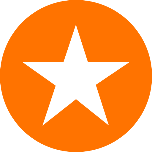
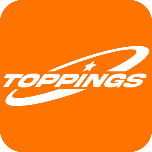
Feat(client): 변경된 logo와 앱 아이콘 이미지를 변경합니다. (#112)
* feat: 변경된 logo와 앱 아이콘 이미지를 변경합니다.

* fix: Remove useless orangeLogo and restore graylogo

* feat: Change grayLogo

diff --git a/apps/client/public/sw.js b/apps/client/public/sw.js
@@ -1,1 +1,1 @@
-if(!self.define){let e,s={};const n=(n,i)=>(n=new URL(n+".js",i).href,s[n]||new Promise((s=>{if("document"in self){const e=document.createElement("script");e.src=n,e.onload=s,document.head.appendChild(e)}else e=n,importScripts(n),s()})).then((()=>{let e=s[n];if(!e)throw new Error(`Module ${n} didn’t register its module`);return e})));self.define=(i,a)=>{const c=e||("document"in self?document.currentScript.src:"")||location.href;if(s[c])return;let t={};const r=e=>n(e,c),o={module:{uri:c},exports:t,require:r};s[c]=Promise.all(i.map((e=>o[e]||r(e)))).then((e=>(a(...e),t)))}}define(["./workbox-981179b2"],(function(e){"use strict";importScripts(),self.skipWaiting(),e.clientsClaim(),e.precacheAndRoute([{url:"/_next/static/_-uUmukwtk-ajOC4BQ8iz/_buildManifest.js",revision:"2e5f4ba7390f2bf413d15c4a61836898"},{url:"/_next/static/_-uUmukwtk-ajOC4BQ8iz/_ssgManifest.js",revision:"b6652df95db52feb4daf4eca35380933"},{url:"/_next/static/chunks/122-8d4af793a5482d45.js",revision:"8d4af793a5482d45"},{url:"/_next/static/chunks/247-1de57a6a7cc1e852.js",revision:"1de57a6a7cc1e852"},{url:"/_next/static/chunks/262-ae66096516c2317f.js",revision:"ae66096516c2317f"},{url:"/_next/static/chunks/284-aaf9d2391ee77818.js",revision:"aaf9d2391ee77818"},{url:"/_next/static/chunks/461-a7b64f631c2f9f42.js",revision:"a7b64f631c2f9f42"},{url:"/_next/static/chunks/635-7ec2b46d127777c3.js",revision:"7ec2b46d127777c3"},{url:"/_next/static/chunks/978-637c3134ed31c728.js",revision:"637c3134ed31c728"},{url:"/_next/static/chunks/framework-a854c81c24cf2e55.js",revision:"a854c81c24cf2e55"},{url:"/_next/static/chunks/main-ad4cfd227aad6c0b.js",revision:"ad4cfd227aad6c0b"},{url:"/_next/static/chunks/pages/404-86914aa9cbdfbe0e.js",revision:"86914aa9cbdfbe0e"},{url:"/_next/static/chunks/pages/_app-2fbeed6bc84df298.js",revision:"2fbeed6bc84df298"},{url:"/_next/static/chunks/pages/_error-92e3c202d3b508e2.js",revision:"92e3c202d3b508e2"},{url:"/_next/static/chunks/pages/about-5b527ecf03a3e75e.js",revision:"5b527ecf03a3e75e"},{url:"/_next/static/chunks/pages/index-ac71b9d772f05ab5.js",revision:"ac71b9d772f05ab5"},{url:"/_next/static/chunks/pages/login-91aef875dece490c.js",revision:"91aef875dece490c"},{url:"/_next/static/chunks/pages/login/redirect-bc931e350282b256.js",revision:"bc931e350282b256"},{url:"/_next/static/chunks/pages/map-6ff3bdd250c73ff6.js",revision:"6ff3bdd250c73ff6"},{url:"/_next/static/chunks/pages/map/viewList-a297d23b363a23b9.js",revision:"a297d23b363a23b9"},{url:"/_next/static/chunks/pages/notice-9b9dce7097b932e6.js",revision:"9b9dce7097b932e6"},{url:"/_next/static/chunks/pages/post/%5Bid%5D-7bffc2c0ec2cc7e4.js",revision:"7bffc2c0ec2cc7e4"},{url:"/_next/static/chunks/pages/post/add-71c61d9f73f4f2b2.js",revision:"71c61d9f73f4f2b2"},{url:"/_next/static/chunks/pages/profile-5819719085413bc9.js",revision:"5819719085413bc9"},{url:"/_next/static/chunks/pages/profile/edit-e3343a6db301e58f.js",revision:"e3343a6db301e58f"},{url:"/_next/static/chunks/pages/profile/edit/eatingHabits-9c0f81b765598e68.js",revision:"9c0f81b765598e68"},{url:"/_next/static/chunks/pages/profile/edit/nationality-951ef365a9080c55.js",revision:"951ef365a9080c55"},{url:"/_next/static/chunks/pages/profile/menu-02b55cfde8a5c324.js",revision:"02b55cfde8a5c324"},{url:"/_next/static/chunks/pages/profile/posts-bd06ac5b0e3791e8.js",revision:"bd06ac5b0e3791e8"},{url:"/_next/static/chunks/pages/profile/reviews-c6ef391e79f508f2.js",revision:"c6ef391e79f508f2"},{url:"/_next/static/chunks/pages/profile/saved-a3e53ed1f02cbd65.js",revision:"a3e53ed1f02cbd65"},{url:"/_next/static/chunks/pages/recent-90197be6b39d6706.js",revision:"90197be6b39d6706"},{url:"/_next/static/chunks/pages/recent/filter/eatingHabit-48e2be56e975d186.js",revision:"48e2be56e975d186"},{url:"/_next/static/chunks/pages/recent/filter/nationality-b193ee22ff30864b.js",revision:"b193ee22ff30864b"},{url:"/_next/static/chunks/pages/recent/filter/restaurant-2ee0d9900b2b9803.js",revision:"2ee0d9900b2b9803"},{url:"/_next/static/chunks/pages/register/eatingHabits-cb47b16b10b8777d.js",revision:"cb47b16b10b8777d"},{url:"/_next/static/chunks/pages/register/nationality-436d488cb76f2e9d.js",revision:"436d488cb76f2e9d"},{url:"/_next/static/chunks/pages/review/%5Bid%5D-b5d951a1b8f10a3d.js",revision:"b5d951a1b8f10a3d"},{url:"/_next/static/chunks/pages/review/add/%5BrestaurantId%5D-bdcea2b5fed42266.js",revision:"bdcea2b5fed42266"},{url:"/_next/static/chunks/pages/search/%5Btype%5D-7d0fe384666b422f.js",revision:"7d0fe384666b422f"},{url:"/_next/static/chunks/polyfills-c67a75d1b6f99dc8.js",revision:"837c0df77fd5009c9e46d446188ecfd0"},{url:"/_next/static/chunks/webpack-235955b20eb3ee85.js",revision:"235955b20eb3ee85"},{url:"/android-icon-128x128.png",revision:"b6b14af45b3b5d837738423285e4176d"},{url:"/android-icon-144x144.png",revision:"3625239d9e9cc6727db90d06f1e76ba3"},{url:"/android-icon-152x152.png",revision:"a416854c3ba169c0a6a116a335a341e5"},{url:"/android-icon-192x192.png",revision:"b172c29685892c6b8759c3c3d1cd8a65"},{url:"/android-icon-36x36.png",revision:"f0e05b9ee4fd0bda286bc082cbe6b5a5"},{url:"/android-icon-384x384.png",revision:"55274557ec9172d4a868fa76055451f5"},{url:"/android-icon-48x48.png",revision:"31bee9e052020488ccbb48d6c99ed220"},{url:"/android-icon-512x512.png",revision:"569ba17842913b1b1b78d242b7cf2c3b"},{url:"/android-icon-72x72.png",revision:"afc62fbd5cdb0e7081f44657056b5a73"},{url:"/android-icon-96x96.png",revision:"74636f9aacb68e4734e20abbb05636bf"},{url:"/apple-icon-114x114.png",revision:"e925757906f707a89f522c15b813875a"},{url:"/apple-icon-120x120.png",revision:"648d82ad79856a277c2998c2d18a9616"},{url:"/apple-icon-144x144.png",revision:"71c57abf8c67aafce505af77e3b31cd4"},{url:"/apple-icon-152x152.png",revision:"60b5e97f3d04d3ac9a9ade7299a38997"},{url:"/apple-icon-180x180.png",revision:"6405c79d492cf12344a38d8601a32cef"},{url:"/apple-icon-57x57.png",revision:"a4d2057257e7357d65ee1947251b9ef9"},{url:"/apple-icon-60x60.png",revision:"38ba73c939e45718bdacfb1ebfd09279"},{url:"/apple-icon-72x72.png",revision:"46fe2cab121862783b99e180991b600b"},{url:"/apple-icon-76x76.png",revision:"2768a2d83acbbe4cc11d54305a835eca"},{url:"/apple-icon-precomposed.png",revision:"49b767e8df04e943080f837ff95c5022"},{url:"/apple-icon.png",revision:"49b767e8df04e943080f837ff95c5022"},{url:"/browserconfig.xml",revision:"653d077300a12f09a69caeea7a8947f8"},{url:"/favicon-16x16.png",revision:"2277a19c59e52bb047bfb2ebec5c558b"},{url:"/favicon-32x32.png",revision:"1601703f79b4ae283bc2062287ef6f78"},{url:"/favicon-96x96.png",revision:"97e287a813da31fa390af99334f7c9b7"},{url:"/favicon.ico",revision:"5157af039d5625e90beaf5a434dd2e20"},{url:"/manifest.json",revision:"1a01e0eb1cedc98ef2bfc7249409d186"},{url:"/ms-icon-144x144.png",revision:"71c57abf8c67aafce505af77e3b31cd4"},{url:"/ms-icon-150x150.png",revision:"0abe98959a98cc86a9d44435dbac9f20"},{url:"/ms-icon-310x310.png",revision:"c001925e71ae7bf2fa932d9fe59df2a1"},{url:"/ms-icon-70x70.png",revision:"5a4c95d916defdbdeb028cf9d560189e"}],{ignoreURLParametersMatching:[]}),e.cleanupOutdatedCaches(),e.registerRoute("/",new e.NetworkFirst({cacheName:"start-url",plugins:[{cacheWillUpdate:async({request:e,response:s,event:n,state:i})=>s&&"opaqueredirect"===s.type?new Response(s.body,{status:200,statusText:"OK",headers:s.headers}):s}]}),"GET"),e.registerRoute(/^https:\/\/fonts\.(?:gstatic)\.com\/.*/i,new e.CacheFirst({cacheName:"google-fonts-webfonts",plugins:[new e.ExpirationPlugin({maxEntries:4,maxAgeSeconds:31536e3})]}),"GET"),e.registerRoute(/^https:\/\/fonts\.(?:googleapis)\.com\/.*/i,new e.StaleWhileRevalidate({cacheName:"google-fonts-stylesheets",plugins:[new e.ExpirationPlugin({maxEntries:4,maxAgeSeconds:604800})]}),"GET"),e.registerRoute(/\.(?:eot|otf|ttc|ttf|woff|woff2|font.css)$/i,new e.StaleWhileRevalidate({cacheName:"static-font-assets",plugins:[new e.ExpirationPlugin({maxEntries:4,maxAgeSeconds:604800})]}),"GET"),e.registerRoute(/\.(?:jpg|jpeg|gif|png|svg|ico|webp)$/i,new e.StaleWhileRevalidate({cacheName:"static-image-assets",plugins:[new e.ExpirationPlugin({maxEntries:64,maxAgeSeconds:86400})]}),"GET"),e.registerRoute(/\/_next\/image\?url=.+$/i,new e.StaleWhileRevalidate({cacheName:"next-image",plugins:[new e.ExpirationPlugin({maxEntries:64,maxAgeSeconds:86400})]}),"GET"),e.registerRoute(/\.(?:mp3|wav|ogg)$/i,new e.CacheFirst({cacheName:"static-audio-assets",plugins:[new e.RangeRequestsPlugin,new e.ExpirationPlugin({maxEntries:32,maxAgeSeconds:86400})]}),"GET"),e.registerRoute(/\.(?:mp4)$/i,new e.CacheFirst({cacheName:"static-video-assets",plugins:[new e.RangeRequestsPlugin,new e.ExpirationPlugin({maxEntries:32,maxAgeSeconds:86400})]}),"GET"),e.registerRoute(/\.(?:js)$/i,new e.StaleWhileRevalidate({cacheName:"static-js-assets",plugins:[new e.ExpirationPlugin({maxEntries:32,maxAgeSeconds:86400})]}),"GET"),e.registerRoute(/\.(?:css|less)$/i,new e.StaleWhileRevalidate({cacheName:"static-style-assets",plugins:[new e.ExpirationPlugin({maxEntries:32,maxAgeSeconds:86400})]}),"GET"),e.registerRoute(/\/_next\/data\/.+\/.+\.json$/i,new e.StaleWhileRevalidate({cacheName:"next-data",plugins:[new e.ExpirationPlugin({maxEntries:32,maxAgeSeconds:86400})]}),"GET"),e.registerRoute(/\.(?:json|xml|csv)$/i,new e.NetworkFirst({cacheName:"static-data-assets",plugins:[new e.ExpirationPlugin({maxEntries:32,maxAgeSeconds:86400})]}),"GET"),e.registerRoute((({url:e})=>{if(!(self.origin===e.origin))return!1;const s=e.pathname;return!s.startsWith("/api/auth/")&&!!s.startsWith("/api/")}),new e.NetworkFirst({cacheName:"apis",networkTimeoutSeconds:10,plugins:[new e.ExpirationPlugin({maxEntries:16,maxAgeSeconds:86400})]}),"GET"),e.registerRoute((({url:e})=>{if(!(self.origin===e.origin))return!1;return!e.pathname.startsWith("/api/")}),new e.NetworkFirst({cacheName:"others",networkTimeoutSeconds:10,plugins:[new e.ExpirationPlugin({maxEntries:32,maxAgeSeconds:86400})]}),"GET"),e.registerRoute((({url:e})=>!(self.origin===e.origin)),new e.NetworkFirst({cacheName:"cross-origin",networkTimeoutSeconds:10,plugins:[new e.ExpirationPlugin({maxEntries:32,maxAgeSeconds:3600})]}),"GET")}));
+if(!self.define){let e,s={};const n=(n,i)=>(n=new URL(n+".js",i).href,s[n]||new Promise((s=>{if("document"in self){const e=document.createElement("script");e.src=n,e.onload=s,document.head.appendChild(e)}else e=n,importScripts(n),s()})).then((()=>{let e=s[n];if(!e)throw new Error(`Module ${n} didn’t register its module`);return e})));self.define=(i,a)=>{const c=e||("document"in self?document.currentScript.src:"")||location.href;if(s[c])return;let t={};const r=e=>n(e,c),o={module:{uri:c},exports:t,require:r};s[c]=Promise.all(i.map((e=>o[e]||r(e)))).then((e=>(a(...e),t)))}}define(["./workbox-981179b2"],(function(e){"use strict";importScripts(),self.skipWaiting(),e.clientsClaim(),e.precacheAndRoute([{url:"/_next/static/chunks/122-8d4af793a5482d45.js",revision:"8d4af793a5482d45"},{url:"/_next/static/chunks/247-ae065a333ef39fb5.js",revision:"ae065a333ef39fb5"},{url:"/_next/static/chunks/262-ae66096516c2317f.js",revision:"ae66096516c2317f"},{url:"/_next/static/chunks/284-7d3b25c8c5626f8a.js",revision:"7d3b25c8c5626f8a"},{url:"/_next/static/chunks/461-a57f9934126b8469.js",revision:"a57f9934126b8469"},{url:"/_next/static/chunks/635-4792f31964f854c6.js",revision:"4792f31964f854c6"},{url:"/_next/static/chunks/978-3c89c4a23f0cc580.js",revision:"3c89c4a23f0cc580"},{url:"/_next/static/chunks/framework-a854c81c24cf2e55.js",revision:"a854c81c24cf2e55"},{url:"/_next/static/chunks/main-ad4cfd227aad6c0b.js",revision:"ad4cfd227aad6c0b"},{url:"/_next/static/chunks/pages/404-5539b242486f9e46.js",revision:"5539b242486f9e46"},{url:"/_next/static/chunks/pages/_app-dc5ef7b532bbdccf.js",revision:"dc5ef7b532bbdccf"},{url:"/_next/static/chunks/pages/_error-92e3c202d3b508e2.js",revision:"92e3c202d3b508e2"},{url:"/_next/static/chunks/pages/about-5b527ecf03a3e75e.js",revision:"5b527ecf03a3e75e"},{url:"/_next/static/chunks/pages/index-fc3f2fc953ea8c2f.js",revision:"fc3f2fc953ea8c2f"},{url:"/_next/static/chunks/pages/login-91aef875dece490c.js",revision:"91aef875dece490c"},{url:"/_next/static/chunks/pages/login/redirect-bc931e350282b256.js",revision:"bc931e350282b256"},{url:"/_next/static/chunks/pages/map-6ff3bdd250c73ff6.js",revision:"6ff3bdd250c73ff6"},{url:"/_next/static/chunks/pages/map/viewList-a297d23b363a23b9.js",revision:"a297d23b363a23b9"},{url:"/_next/static/chunks/pages/notice-e7e77c6bcbf46d5a.js",revision:"e7e77c6bcbf46d5a"},{url:"/_next/static/chunks/pages/post/%5Bid%5D-e8d71770afce3390.js",revision:"e8d71770afce3390"},{url:"/_next/static/chunks/pages/post/add-71c61d9f73f4f2b2.js",revision:"71c61d9f73f4f2b2"},{url:"/_next/static/chunks/pages/profile-5819719085413bc9.js",revision:"5819719085413bc9"},{url:"/_next/static/chunks/pages/profile/edit-e3343a6db301e58f.js",revision:"e3343a6db301e58f"},{url:"/_next/static/chunks/pages/profile/edit/eatingHabits-9c0f81b765598e68.js",revision:"9c0f81b765598e68"},{url:"/_next/static/chunks/pages/profile/edit/nationality-951ef365a9080c55.js",revision:"951ef365a9080c55"},{url:"/_next/static/chunks/pages/profile/menu-02b55cfde8a5c324.js",revision:"02b55cfde8a5c324"},{url:"/_next/static/chunks/pages/profile/posts-bd06ac5b0e3791e8.js",revision:"bd06ac5b0e3791e8"},{url:"/_next/static/chunks/pages/profile/reviews-c6ef391e79f508f2.js",revision:"c6ef391e79f508f2"},{url:"/_next/static/chunks/pages/profile/saved-a3e53ed1f02cbd65.js",revision:"a3e53ed1f02cbd65"},{url:"/_next/static/chunks/pages/recent-90197be6b39d6706.js",revision:"90197be6b39d6706"},{url:"/_next/static/chunks/pages/recent/filter/eatingHabit-48e2be56e975d186.js",revision:"48e2be56e975d186"},{url:"/_next/static/chunks/pages/recent/filter/nationality-b193ee22ff30864b.js",revision:"b193ee22ff30864b"},{url:"/_next/static/chunks/pages/recent/filter/restaurant-2ee0d9900b2b9803.js",revision:"2ee0d9900b2b9803"},{url:"/_next/static/chunks/pages/register/eatingHabits-cb47b16b10b8777d.js",revision:"cb47b16b10b8777d"},{url:"/_next/static/chunks/pages/register/nationality-436d488cb76f2e9d.js",revision:"436d488cb76f2e9d"},{url:"/_next/static/chunks/pages/review/%5Bid%5D-df849f91d412fd24.js",revision:"df849f91d412fd24"},{url:"/_next/static/chunks/pages/review/add/%5BrestaurantId%5D-68d739bae3bc079a.js",revision:"68d739bae3bc079a"},{url:"/_next/static/chunks/pages/search/%5Btype%5D-7d0fe384666b422f.js",revision:"7d0fe384666b422f"},{url:"/_next/static/chunks/polyfills-c67a75d1b6f99dc8.js",revision:"837c0df77fd5009c9e46d446188ecfd0"},{url:"/_next/static/chunks/webpack-235955b20eb3ee85.js",revision:"235955b20eb3ee85"},{url:"/_next/static/j1D90CSX8eZpwnntjrCb9/_buildManifest.js",revision:"7849eb5f90a985bb182c6e6026a921b1"},{url:"/_next/static/j1D90CSX8eZpwnntjrCb9/_ssgManifest.js",revision:"b6652df95db52feb4daf4eca35380933"},{url:"/android-icon-128x128.png",revision:"d0944415ac547329c6618491432db626"},{url:"/android-icon-144x144.png",revision:"e77d62eeb8d9069a7e7231a2243bf847"},{url:"/android-icon-152x152.png",revision:"aa868775213c67615a5480a130fa9429"},{url:"/android-icon-192x192.png",revision:"c6a978f32700cd84af29537f186725c9"},{url:"/android-icon-36x36.png",revision:"46d3384734537e73fb2154de436f1aa3"},{url:"/android-icon-384x384.png",revision:"f87a445811cae15fc45767c229af4b63"},{url:"/android-icon-48x48.png",revision:"fb5c63f0871669c9b5848cb5fffeaad4"},{url:"/android-icon-512x512.png",revision:"370794057443af4c8781007b07b5e54b"},{url:"/android-icon-72x72.png",revision:"5c5446d80dcaa3117949620f75d80c5f"},{url:"/android-icon-96x96.png",revision:"678981bdf9ee061a7e6d95fe8777829a"},{url:"/apple-icon-114x114.png",revision:"67f8f14c5f8040a7962f21c722277fc9"},{url:"/apple-icon-120x120.png",revision:"73b793d95f6d5f32781322f60ed91537"},{url:"/apple-icon-144x144.png",revision:"8f00185c7cf8586c9a34610e412a1f85"},{url:"/apple-icon-152x152.png",revision:"fbb00242c8fe619c2c2f398eb2603834"},{url:"/apple-icon-180x180.png",revision:"769af5b32ac9958362ff7bec864e5ff5"},{url:"/apple-icon-57x57.png",revision:"98845e8d37451536bbe7311b2c2bf9a1"},{url:"/apple-icon-60x60.png",revision:"4c464ee4c4741663a836a6db1584c912"},{url:"/apple-icon-72x72.png",revision:"42c70ab83f56f8b34a365c0bde61f8e9"},{url:"/apple-icon-76x76.png",revision:"9a10a3eb27f2e096b0251bd5c8baefc3"},{url:"/apple-icon-precomposed.png",revision:"501aa691452d022a11a6d6ba31384d64"},{url:"/apple-icon.png",revision:"501aa691452d022a11a6d6ba31384d64"},{url:"/browserconfig.xml",revision:"653d077300a12f09a69caeea7a8947f8"},{url:"/favicon-16x16.png",revision:"2277a19c59e52bb047bfb2ebec5c558b"},{url:"/favicon-32x32.png",revision:"1601703f79b4ae283bc2062287ef6f78"},{url:"/favicon-96x96.png",revision:"97e287a813da31fa390af99334f7c9b7"},{url:"/favicon.ico",revision:"5157af039d5625e90beaf5a434dd2e20"},{url:"/manifest.json",revision:"53f110804ee8974a5e2aebb84156556c"},{url:"/ms-icon-144x144.png",revision:"71c57abf8c67aafce505af77e3b31cd4"},{url:"/ms-icon-150x150.png",revision:"0abe98959a98cc86a9d44435dbac9f20"},{url:"/ms-icon-310x310.png",revision:"c001925e71ae7bf2fa932d9fe59df2a1"},{url:"/ms-icon-70x70.png",revision:"5a4c95d916defdbdeb028cf9d560189e"}],{ignoreURLParametersMatching:[]}),e.cleanupOutdatedCaches(),e.registerRoute("/",new e.NetworkFirst({cacheName:"start-url",plugins:[{cacheWillUpdate:async({request:e,response:s,event:n,state:i})=>s&&"opaqueredirect"===s.type?new Response(s.body,{status:200,statusText:"OK",headers:s.headers}):s}]}),"GET"),e.registerRoute(/^https:\/\/fonts\.(?:gstatic)\.com\/.*/i,new e.CacheFirst({cacheName:"google-fonts-webfonts",plugins:[new e.ExpirationPlugin({maxEntries:4,maxAgeSeconds:31536e3})]}),"GET"),e.registerRoute(/^https:\/\/fonts\.(?:googleapis)\.com\/.*/i,new e.StaleWhileRevalidate({cacheName:"google-fonts-stylesheets",plugins:[new e.ExpirationPlugin({maxEntries:4,maxAgeSeconds:604800})]}),"GET"),e.registerRoute(/\.(?:eot|otf|ttc|ttf|woff|woff2|font.css)$/i,new e.StaleWhileRevalidate({cacheName:"static-font-assets",plugins:[new e.ExpirationPlugin({maxEntries:4,maxAgeSeconds:604800})]}),"GET"),e.registerRoute(/\.(?:jpg|jpeg|gif|png|svg|ico|webp)$/i,new e.StaleWhileRevalidate({cacheName:"static-image-assets",plugins:[new e.ExpirationPlugin({maxEntries:64,maxAgeSeconds:86400})]}),"GET"),e.registerRoute(/\/_next\/image\?url=.+$/i,new e.StaleWhileRevalidate({cacheName:"next-image",plugins:[new e.ExpirationPlugin({maxEntries:64,maxAgeSeconds:86400})]}),"GET"),e.registerRoute(/\.(?:mp3|wav|ogg)$/i,new e.CacheFirst({cacheName:"static-audio-assets",plugins:[new e.RangeRequestsPlugin,new e.ExpirationPlugin({maxEntries:32,maxAgeSeconds:86400})]}),"GET"),e.registerRoute(/\.(?:mp4)$/i,new e.CacheFirst({cacheName:"static-video-assets",plugins:[new e.RangeRequestsPlugin,new e.ExpirationPlugin({maxEntries:32,maxAgeSeconds:86400})]}),"GET"),e.registerRoute(/\.(?:js)$/i,new e.StaleWhileRevalidate({cacheName:"static-js-assets",plugins:[new e.ExpirationPlugin({maxEntries:32,maxAgeSeconds:86400})]}),"GET"),e.registerRoute(/\.(?:css|less)$/i,new e.StaleWhileRevalidate({cacheName:"static-style-assets",plugins:[new e.ExpirationPlugin({maxEntries:32,maxAgeSeconds:86400})]}),"GET"),e.registerRoute(/\/_next\/data\/.+\/.+\.json$/i,new e.StaleWhileRevalidate({cacheName:"next-data",plugins:[new e.ExpirationPlugin({maxEntries:32,maxAgeSeconds:86400})]}),"GET"),e.registerRoute(/\.(?:json|xml|csv)$/i,new e.NetworkFirst({cacheName:"static-data-assets",plugins:[new e.ExpirationPlugin({maxEntries:32,maxAgeSeconds:86400})]}),"GET"),e.registerRoute((({url:e})=>{if(!(self.origin===e.origin))return!1;const s=e.pathname;return!s.startsWith("/api/auth/")&&!!s.startsWith("/api/")}),new e.NetworkFirst({cacheName:"apis",networkTimeoutSeconds:10,plugins:[new e.ExpirationPlugin({maxEntries:16,maxAgeSeconds:86400})]}),"GET"),e.registerRoute((({url:e})=>{if(!(self.origin===e.origin))return!1;return!e.pathname.startsWith("/api/")}),new e.NetworkFirst({cacheName:"others",networkTimeoutSeconds:10,plugins:[new e.ExpirationPlugin({maxEntries:32,maxAgeSeconds:86400})]}),"GET"),e.registerRoute((({url:e})=>!(self.origin===e.origin)),new e.NetworkFirst({cacheName:"cross-origin",networkTimeoutSeconds:10,plugins:[new e.ExpirationPlugin({maxEntries:32,maxAgeSeconds:3600})]}),"GET")}));

diff --git a/apps/client/assets/images/common/index.ts b/apps/client/assets/images/common/index.ts
@@ -1,5 +1,4 @@
-export { default as logo } from "./logo.png";
-export { default as grayLogo } from "./grayLogo.png";
 export { default as grayAvatar } from "./grayAvatar.png";
+export { default as grayLogo } from "./grayLogo.png";
+export { default as logo } from "./logo.png";
 export { default as whiteAvatar } from "./whiteAvatar.png";
-export { default as orangeLogo } from "./orangeLogo.png";
